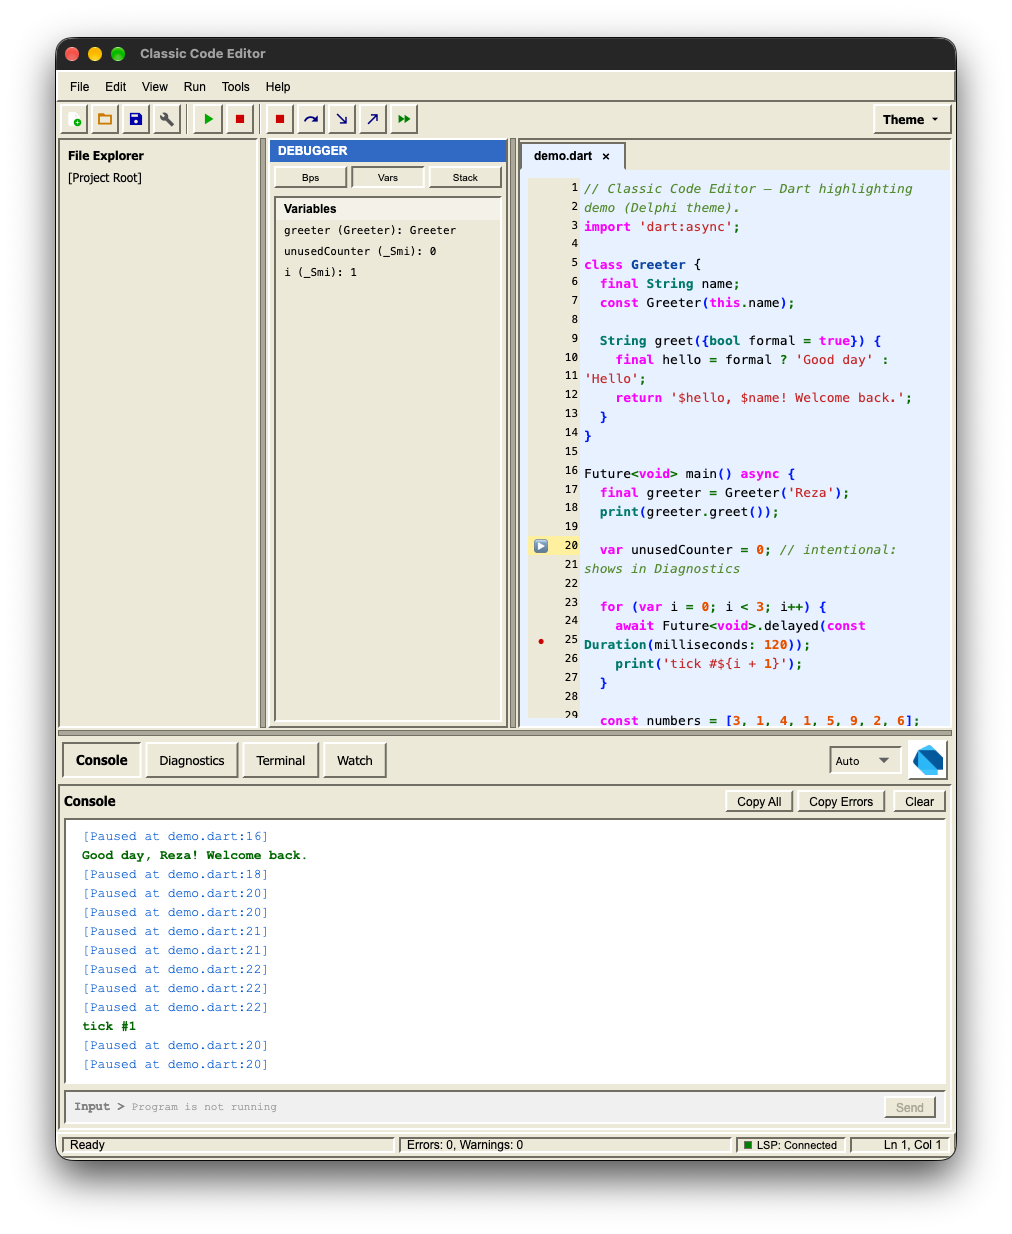
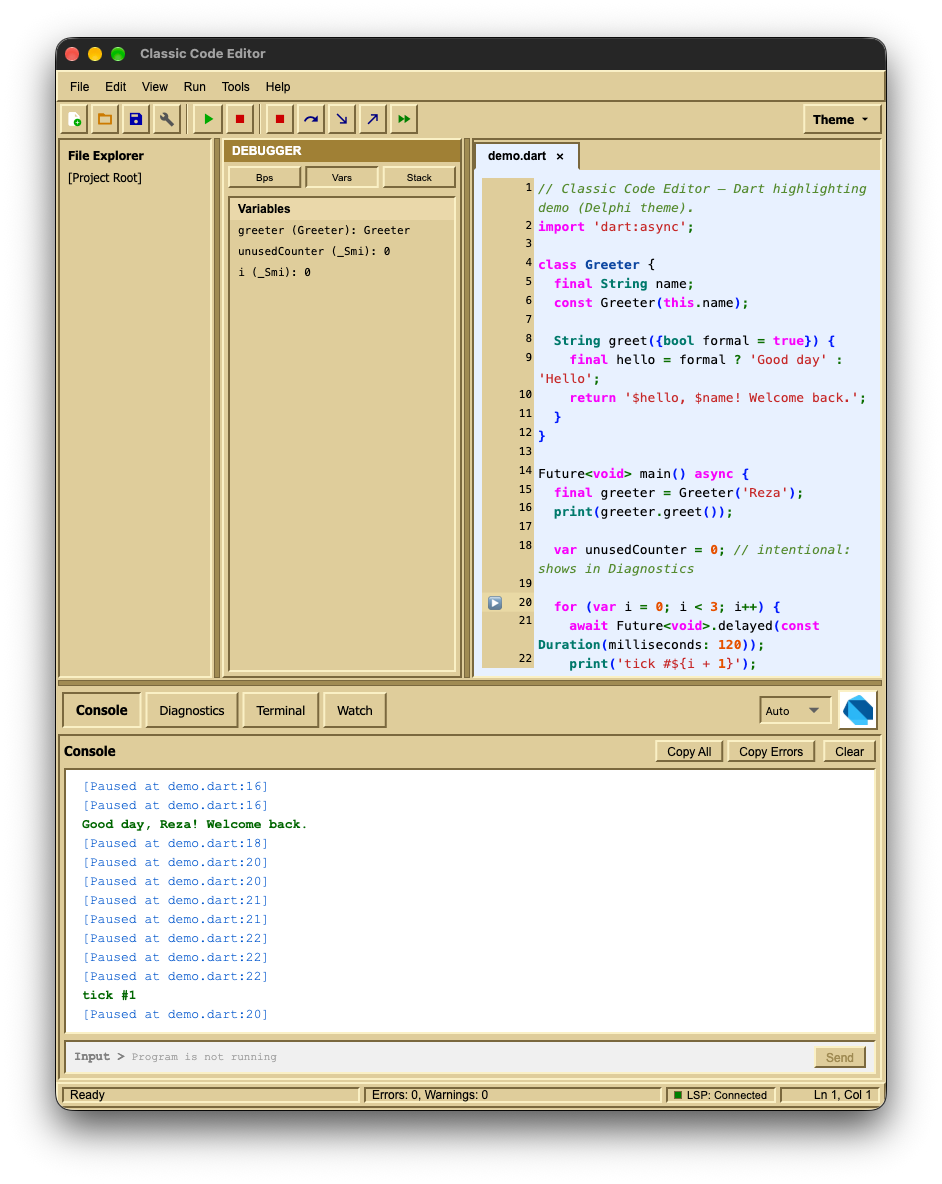
fix(lsp): close documents on tab switch so stale diagnostics stop inflating error counts
test: LspService diagnostics lifecycle (119 tests); docs: refresh counts; screenshots: retake Delphi set

diff --git a/test/services/lsp_service_test.dart b/test/services/lsp_service_test.dart
@@ -1,0 +1,103 @@
+import 'package:flutter_test/flutter_test.dart';
+
+import 'package:classic_code_editor/models/diagnostic.dart';
+import 'package:classic_code_editor/services/lsp_service.dart';
+
+Diagnostic _diag(String file, String severity, {int line = 1}) => Diagnostic(
+  file: file,
+  line: line,
+  column: 1,
+  severity: severity,
+  message: '$severity on line $line',
+  code: 'test',
+);
+
+void main() {
+  late LspService lsp;
+
+  setUp(() {
+    lsp = LspService(workspaceRoot: '/tmp/lsp_diagnostics_test');
+  });
+
+  tearDown(() {
+    lsp.dispose();
+  });
+
+  group('LspService diagnostics aggregation', () {
+    test('counts cover every document the server published for', () {
+      lsp.debugSetDiagnosticsFor('/tmp/a.dart', [
+        _diag('/tmp/a.dart', 'error'),
+        _diag('/tmp/a.dart', 'warning'),
+      ]);
+      lsp.debugSetDiagnosticsFor('/tmp/b.dart', [
+        _diag('/tmp/b.dart', 'error'),
+      ]);
+
+      expect(lsp.errorCount, 2);
+      expect(lsp.warningCount, 1);
+      expect(lsp.diagnostics, hasLength(3));
+    });
+  });
+
+  group('LspService.closeDocument', () {
+    test('drops that document diagnostics and keeps the others', () {
+      lsp.debugSetDiagnosticsFor('/tmp/a.dart', [
+        _diag('/tmp/a.dart', 'error'),
+        _diag('/tmp/a.dart', 'error', line: 2),
+      ]);
+      lsp.debugSetDiagnosticsFor('/tmp/b.dart', [
+        _diag('/tmp/b.dart', 'warning'),
+      ]);
+
+      lsp.closeDocument('/tmp/a.dart');
+
+      expect(lsp.errorCount, 0, reason: 'closed file must stop counting');
+      expect(lsp.warningCount, 1);
+      expect(lsp.diagnosticsFor('/tmp/a.dart'), isEmpty);
+      expect(lsp.diagnosticsFor('/tmp/b.dart'), hasLength(1));
+    });
+
+    test('notifies listeners so the status bar refreshes', () {
+      lsp.debugSetDiagnosticsFor('/tmp/a.dart', [
+        _diag('/tmp/a.dart', 'error'),
+      ]);
+
+      var notifications = 0;
+      lsp.addListener(() => notifications++);
+
+      lsp.closeDocument('/tmp/a.dart');
+
+      expect(notifications, 1);
+      expect(lsp.errorCount, 0);
+    });
+
+    test('stays silent when the file had no diagnostics', () {
+      lsp.debugSetDiagnosticsFor('/tmp/a.dart', [
+        _diag('/tmp/a.dart', 'error'),
+      ]);
+
+      var notifications = 0;
+      lsp.addListener(() => notifications++);
+
+      lsp.closeDocument('/tmp/never-opened.dart');
+
+      expect(notifications, 0, reason: 'no rebuild for a no-op close');
+      expect(lsp.errorCount, 1, reason: 'other files are untouched');
+    });
+
+    test('clears an empty diagnostic entry left by a clean analysis', () {
+      lsp.debugSetDiagnosticsFor('/tmp/a.dart', []);
+      expect(lsp.diagnosticsFor('/tmp/a.dart'), isEmpty);
+
+      lsp.closeDocument('/tmp/a.dart');
+
+      // The entry is gone, so a later clean publish cannot resurrect stale
+      // bookkeeping for a document that is no longer open.
+      expect(lsp.diagnostics, isEmpty);
+    });
+
+    test('does not throw for a file that was never opened', () {
+      expect(() => lsp.closeDocument('/tmp/unknown.dart'), returnsNormally);
+    });
+  });
+}

diff --git a/lib/services/lsp_service.dart b/lib/services/lsp_service.dart
@@ -284,6 +284,44 @@ class LspService extends ChangeNotifier {
     });
   }
 
+  /// Tells the server the document is closed and forgets everything we knew
+  /// about it (tracked version, cached content, published diagnostics).
+  ///
+  /// Without this the server keeps publishing diagnostics for a file the user
+  /// closed, and since [errorCount] / [warningCount] aggregate every known
+  /// URI, the status bar kept reporting problems from files nobody is looking
+  /// at any more.
+  void closeDocument(String filePath) {
+    if (_disposed) return;
+
+    final uri = _pathToUri(filePath);
+    final wasOpen = _documentVersions.containsKey(uri);
+
+    if (wasOpen && isConnected) {
+      _sendNotification('textDocument/didClose', <String, dynamic>{
+        'textDocument': <String, dynamic>{'uri': uri},
+      });
+    }
+
+    _documentVersions.remove(uri);
+    _documentContents.remove(uri);
+
+    // Only notify when something actually went away, so listeners are not
+    // rebuilt on every tab switch that had no diagnostics.
+    if (_diagnosticsByUri.remove(uri) != null) {
+      notifyListeners();
+    }
+  }
+
+  /// Test seam: injects diagnostics exactly as the server would publish them,
+  /// so the aggregation/close lifecycle can be verified without spawning
+  /// `dart language-server`.
+  @visibleForTesting
+  void debugSetDiagnosticsFor(String filePath, List<Diagnostic> diagnostics) {
+    _diagnosticsByUri[_pathToUri(filePath)] = diagnostics;
+    notifyListeners();
+  }
+
   /// Requests completion items from the LSP server at [filePath], [line], [column].
   Future<List<CompletionItem>> requestCompletion(
     String filePath,

diff --git a/lib/ui/shell/ide_shell.dart b/lib/ui/shell/ide_shell.dart
@@ -88,8 +88,16 @@ class _IDEShellState extends State<IDEShell> {
 
     // Push the active document to the language server (open once, then change).
     if (path != _lspOpenPath) {
+      final previousPath = _lspOpenPath;
       _lspOpenPath = path;
       _lspLastContent = content;
+      // Close the document we are leaving first: the server otherwise keeps
+      // publishing its diagnostics and the status bar counts problems from a
+      // file that is no longer open (e.g. errors from a closed tab showing up
+      // under the file that replaced it).
+      if (previousPath != null) {
+        _lspService.closeDocument(previousPath);
+      }
       unawaited(_lspService.openFile(path, content));
     } else if (content != _lspLastContent) {
       _lspLastContent = content;

diff --git a/CONTRIBUTING.md b/CONTRIBUTING.md
@@ -45,7 +45,7 @@ This project follows the Dart style guide. We recommend:
 ### Testing
 - Ensure static analysis is clean: `flutter analyze` (must report
   `No issues found!`)
-- Run the full test suite before submitting: `flutter test` (113 tests pass;
+- Run the full test suite before submitting: `flutter test` (119 tests pass;
   1 opt-in integration test is skipped by default)
 - Add unit tests for new functionality
 - Ensure existing tests continue to pass

diff --git a/docs/DEBUGGING.md b/docs/DEBUGGING.md
@@ -328,7 +328,7 @@ This keeps CI deterministic and headless-safe.
 
 ```bash
 flutter analyze                 # must report "No issues found!"
-flutter test                    # 113 tests; 1 opt-in integration test skipped
+flutter test                    # 119 tests; 1 opt-in integration test skipped
 
 # Opt-in: really spawn a Dart VM and attach over a real WebSocket
 BORLAND_REAL_VM_TEST=1 flutter test test/integration/dart_vm_pause_test.dart

diff --git a/README.md b/README.md
@@ -121,7 +121,7 @@ The suite runs fully offline — no language server, compiler or VM is spawned.
 # Static analysis must report zero issues
 flutter analyze
 
-# Unit + widget tests (113 tests; 1 opt-in integration test is skipped)
+# Unit + widget tests (119 tests; 1 opt-in integration test is skipped)
 flutter test
 
 # Opt-in: really spawn a Dart VM and attach over a real WebSocket
